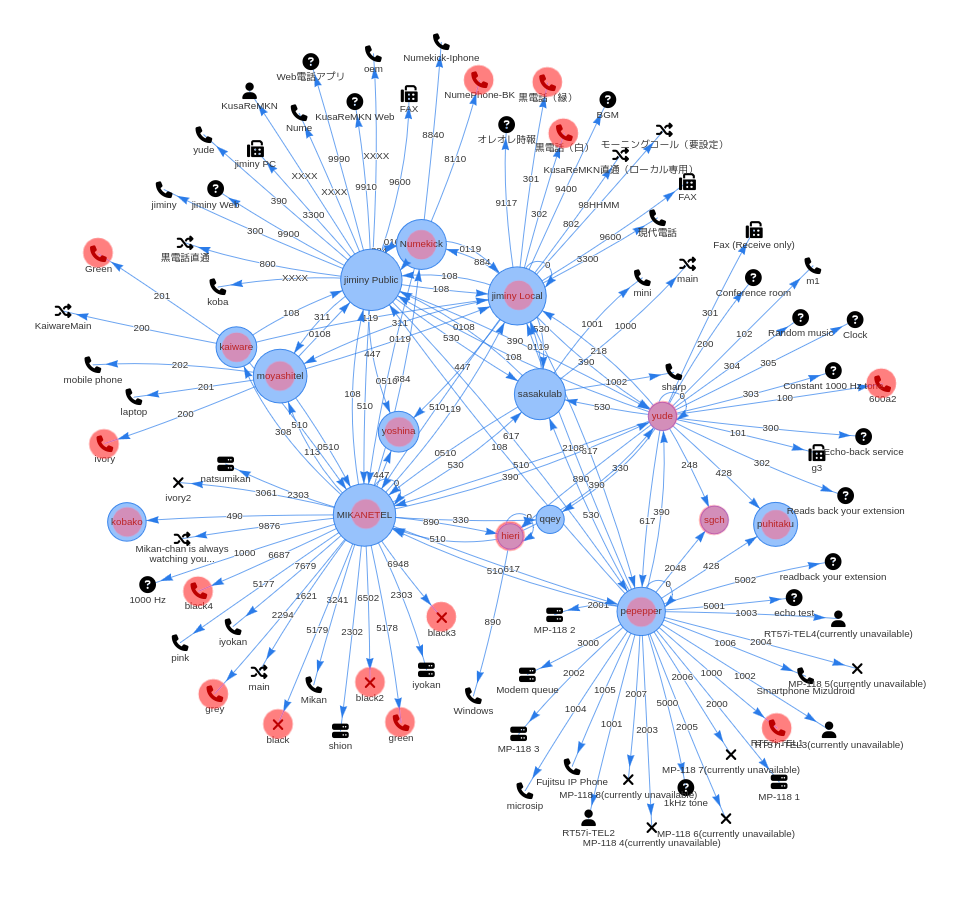
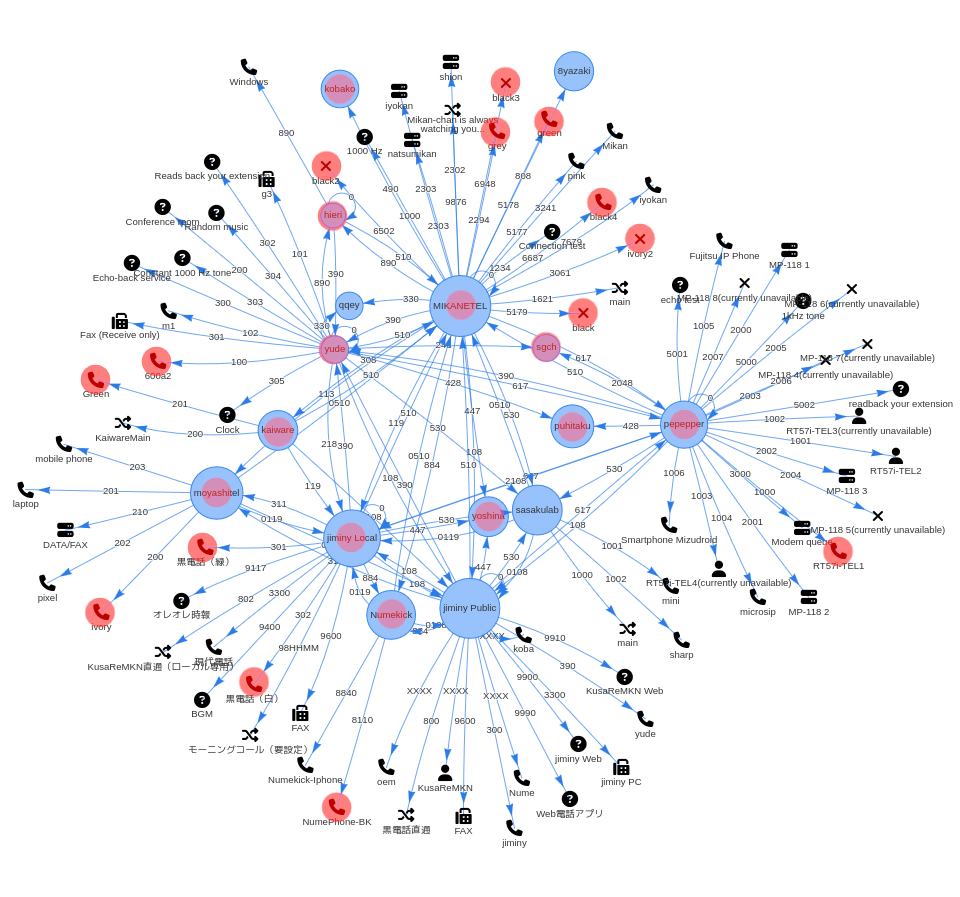
Update images of mantela

Changed region(s): [[0.0, 0.0312, 0.9688, 0.9677]]

diff --git a/slide.tex b/slide.tex
@@ -588,9 +588,9 @@
     \begin{column}{.25\textwidth}
       \begin{description}[labelwidth=\linewidth]
         \item[交換局数]
-          15局
+          16局
         \item[端末数]
-          67以上\\
+          68以上\\
           （仮想含む）
         \item[黒電話の数]
           15程度
@@ -609,8 +609,8 @@
     現在の電話網の姿を描画してみたよ。
     かなり小さくない網になっていることがわかると思うよ。
 
-    この電話網の中には15個以上の電話局があって、
-    端末数は67以上（隠されている端末もあるので実際には70数台）あるよ。
+    この電話網の中には16個以上の電話局があって、
+    端末数は68以上（隠されている端末もあるので実際には70数台）あるよ。
   }
 \end{frame}
 
@@ -621,9 +621,9 @@
     \begin{column}{.25\textwidth}
       \begin{description}[labelwidth=\linewidth]
         \item[交換局数]
-          15局
+          16局
         \item[端末数]
-          67以上\\
+          68以上\\
           （仮想含む）
         \item[黒電話の数]
           15程度
@@ -641,7 +641,7 @@
   \note{
     もともと黒電話を使うことを念頭に作られた網であるので、
     黒電話を数えてみると15程度ありそうだよ。
-    黒電話を収容している局は全15局中12局もあるよ（なんで？）。
+    黒電話を収容している局は全16局中12局もあるよ（なんで？）。
 
     その他にも、公衆電話が接続されていたり、
     ワープロが接続されていたりとかなり面白い網になっているよ。
@@ -658,8 +658,8 @@
 \begin{frame}
   \frametitle{用意するもの}
 
-  必須なものは\textbf{コンピュータだけ}\\
-  \hspace{1.5\zw}交換局を設置・相互接続するだけでOK
+  特にこだわらなければ必須なものは\textbf{コンピュータだけ}\\
+  \hspace{1.5\zw}交換局を設置・相互接続するだけでOK（ソフト電話可）
   \\~\\[-.5\baselineskip]
 
   黒電話やFAXなど物理的な端末をぶら下げたい場合は……
